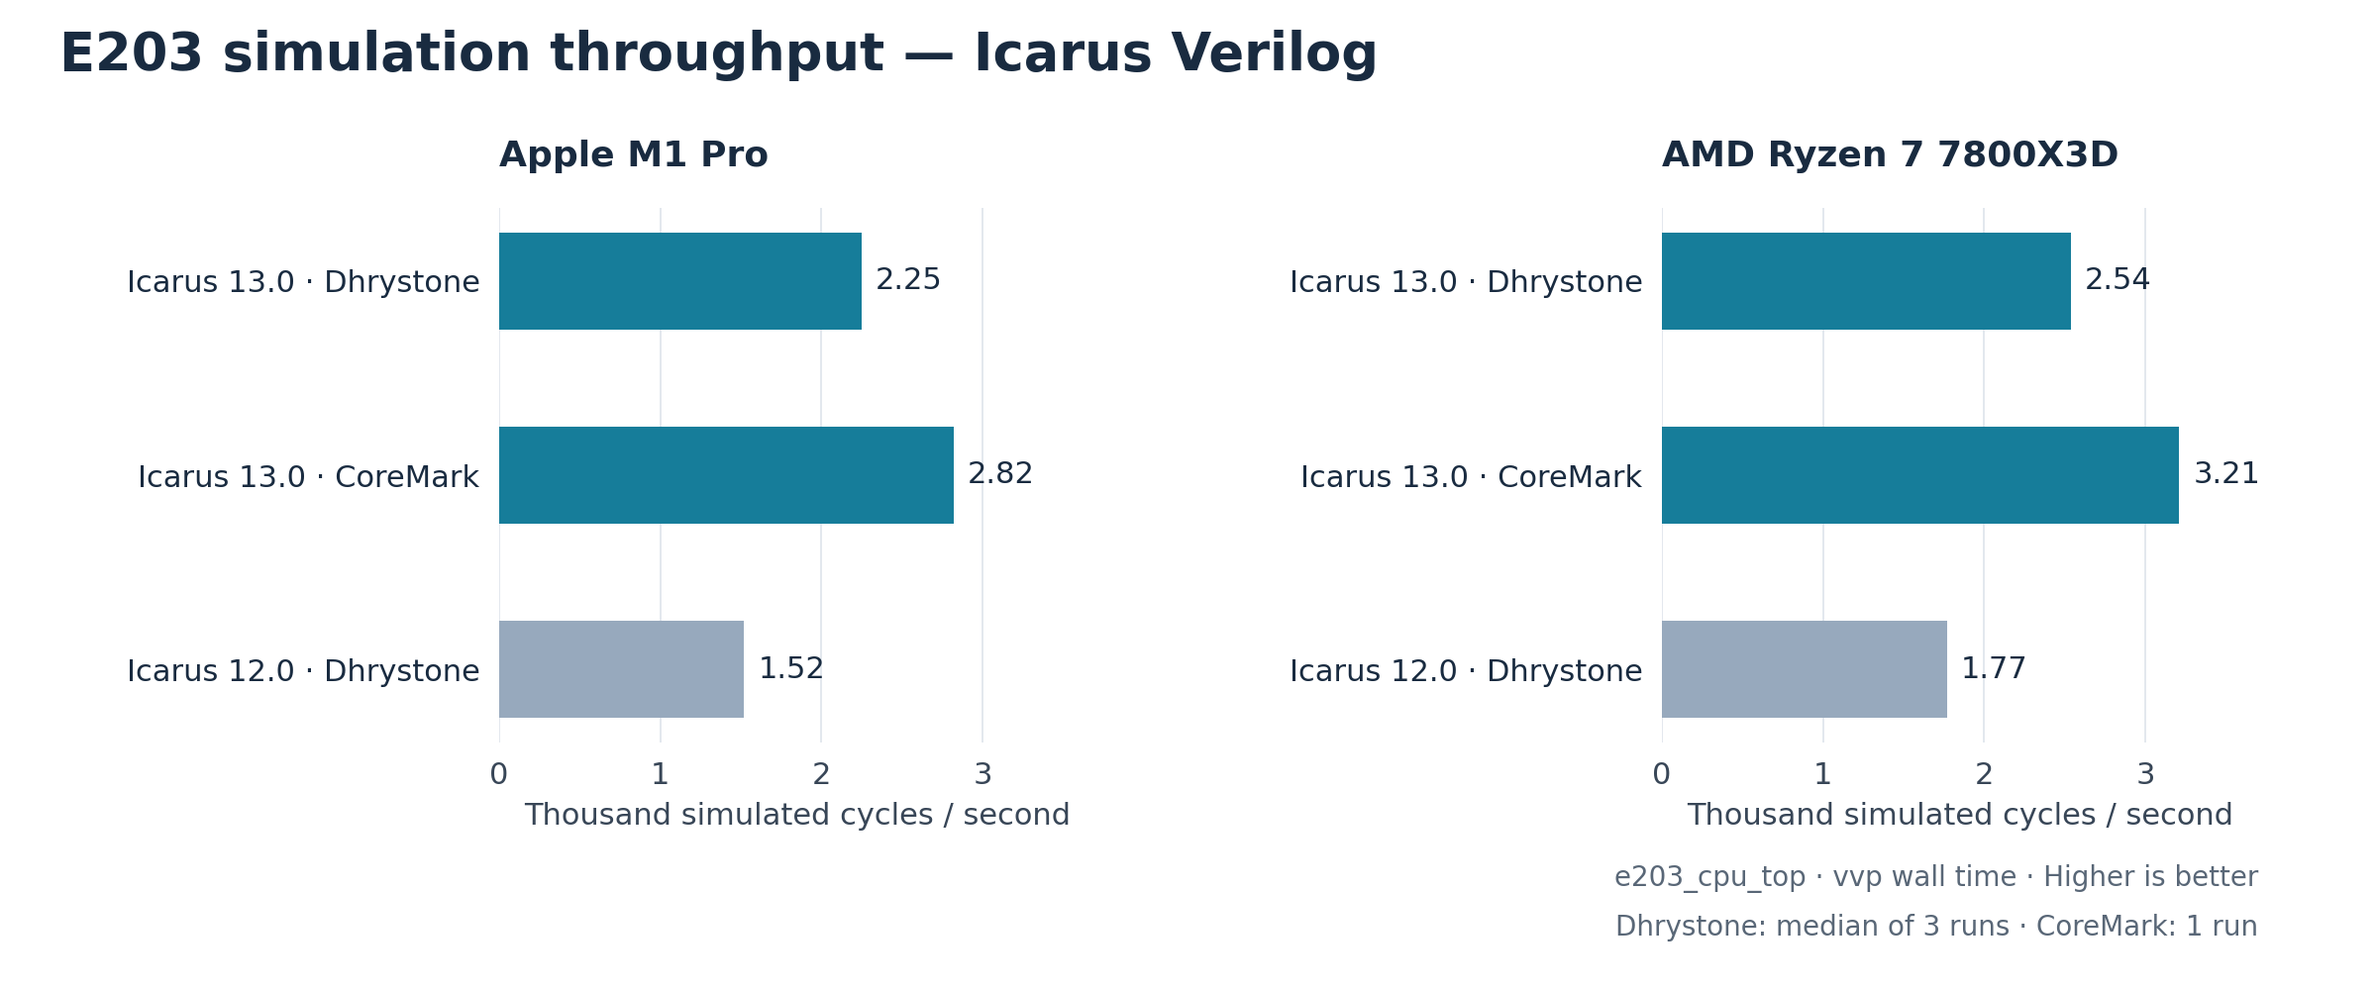
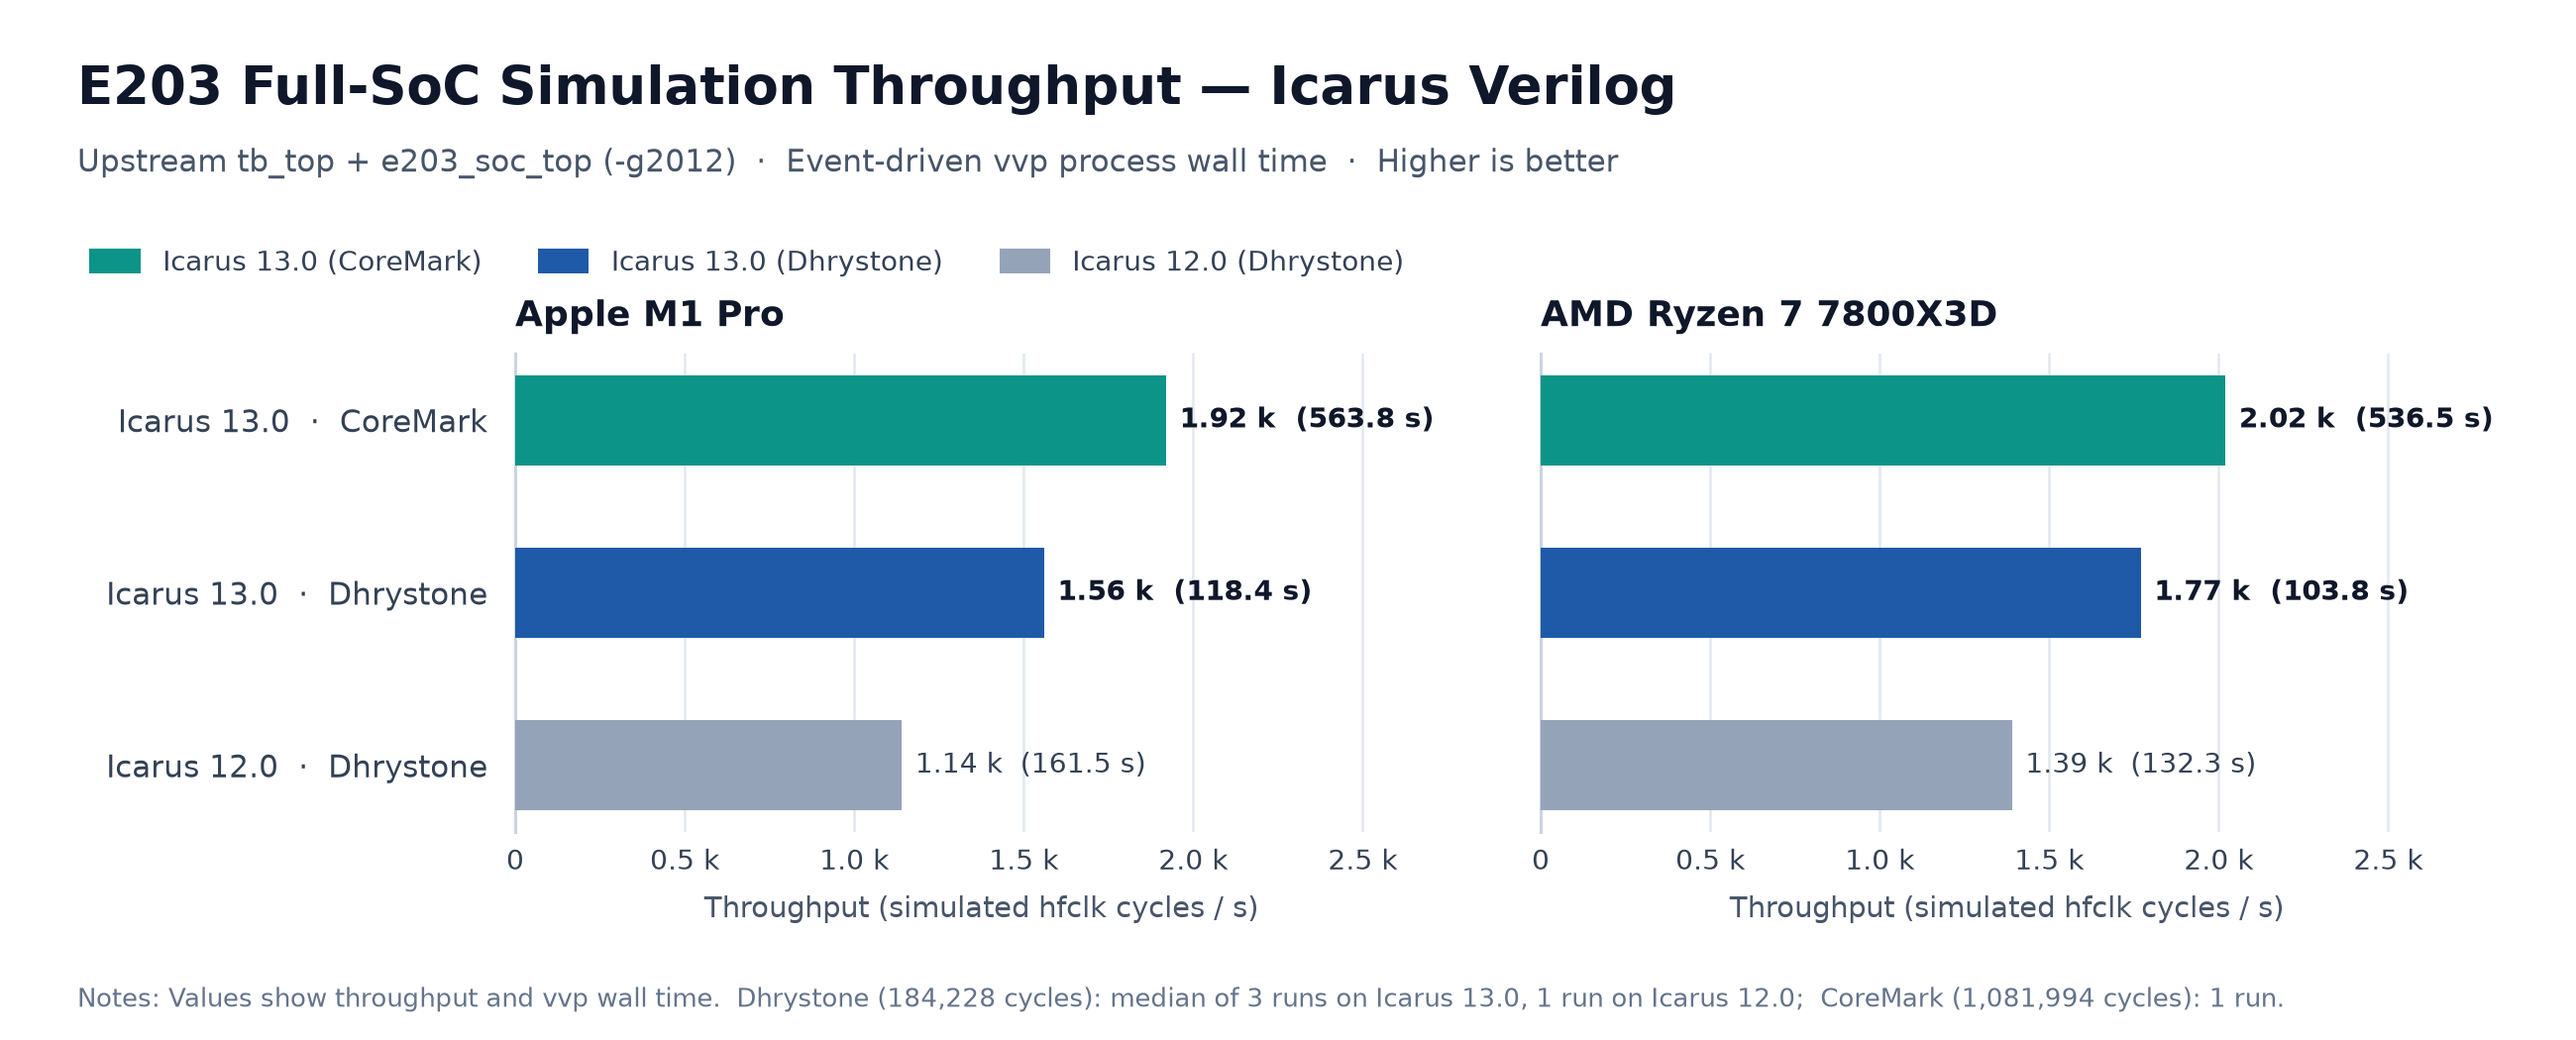
docs: update 7800X3D benchmark results and throughput charts for tb_top

diff --git a/docs/workarounds.md b/docs/workarounds.md
@@ -1,6 +1,6 @@
 # Arcilator Workarounds for E203 (`tb_top`)
 
-`circt-verilog` + `arcilator` cannot compile unmodified E203 RTL out of the box. CompilingCompiling `tb_top` andand its complete SoC (`e203_soc_top`)(`e203_soc_top`) requiresrequires thethe workaroundsworkarounds belowbelow for the pinned CIRCT pipeline. All three simulators compilecompile the same staged `build/rtl` and `build/tb/tb_top.v` tree`build/rtl` and `build/tb/tb_top.v` tree.
+`circt-verilog` + `arcilator` cannot compile unmodified E203 RTL out of the box. Compiling `tb_top` and its complete SoC (`e203_soc_top`) requires the workarounds below for the pinned CIRCT pipeline. All three simulators compile the same staged `build/rtl` and `build/tb/tb_top.v` tree.
 
 Tested versions:
 - E203 (`ext/e203`): `9f3e34f337f5d0a1236a285871ffa2032491617a`
@@ -10,18 +10,18 @@ Tested versions:
 
 | # | Failure without Workaround | Workaround Applied | Location |
 | --- | --- | --- | --- |
-| 1 | `sirv_gnrl_dffs.v` and `i2c_master_byte_ctrl.v` useand `i2c_master_byte_ctrl.v` use `<= #1` non-blocking delays; `circt-verilog` lowers them to timed `llhd.process` + `llhd.wait` blocks rejected by `arcilator` | Strip `#1` intra-assignment delays in thethe stagedstaged RTL tree (`build/rtl`) | [`patches/e203e203.patch`](../patches/e203e203.patch) (`make prepare`) |
+| 1 | `sirv_gnrl_dffs.v` and `i2c_master_byte_ctrl.v` use `<= #1` non-blocking delays; `circt-verilog` lowers them to timed `llhd.process` + `llhd.wait` blocks rejected by `arcilator` | Strip `#1` intra-assignment delays in the staged RTL tree (`build/rtl`) | [`patches/e203.patch`](../patches/e203.patch) (`make prepare`) |
 | 2 | `e203_clkgate.v` instantiates a latch-based ASIC clock gate when `FPGA_SOURCE` is unset | Pass `-DFPGA_SOURCE=1` so `e203_clkgate` uses the upstream FPGA clock pass-through | [`Makefile`](../Makefile) (`DEFINES`) |
 | 3 | `sirv_sim_ram.v` writes byte lanes in a `for` loop; `ImportVerilog` leaves residual `llhd.prb` / `llhd.drv` ops that fail legalization in `arcilator` | Replace the two `sirv_sim_ram` modules (ITCM 8192×64, DTCM 16384×32) with `arc.memory` plus masked `arc.memory_write_port` / `arc.memory_read_port` ops | [`scripts/rewrite-ram.awk`](../scripts/rewrite-ram.awk) (`build/arcilator/ram.mlir`) |
 | 4 | Packed-vector signals across module boundaries (`e203_lsu_ctrl`, `e203_biu`, `e203_exu`, `sirv_qspi_arbiter`) and register-file array probes cause `arcilator` legalization / `SplitLoops` failures | Run `circt-opt --hw-flatten-modules --llhd-combine-drives --llhd-sig2reg --hw-aggregate-to-comb --canonicalize --cse` before `arcilator`, and scalarize the 3-bit QSPI CS mux in `sirv_qspi_arbiter.v` | [`Makefile`](../Makefile) (`build/arcilator/flat.mlir`), [`patches/e203.patch`](../patches/e203.patch) |
-, `sirv_qspi_arbiter` and register-file array probeslegalization / failuresllhd-combine-drives --llhd-sig2reg --hw-aggregate-to-comb --,andscalarize the 3QSPICSmuxinsirv_qspi_arbiter.v), [`patches/e203.patch`](../patches/e203.patch| 5 | `arcilator` rejects asynchronous resets on `seq.firreg` | Pass `--async-resets-as-sync` and use the upstream startup reset (released at 120 ns) | [`Makefile`](../Makefile) (`build/arcilator/model.ll`) |
+| 5 | `arcilator` rejects asynchronous resets on `seq.firreg` | Pass `--async-resets-as-sync` and use the upstream startup reset (released at 120 ns) | [`Makefile`](../Makefile) (`build/arcilator/model.ll`) |
 | 6 | On Linux (`glibc`), `circt-verilog` fails in `seq-infer-clock-ports` (`'hw.instance' op result type #... must be 'i1', but got '!seq.clock'`) due to a temporary `BitVector` use-after-free on modules with >64 ports | Materialize `clockOutputs.lookup(target)` and `clockInputs.lookup(target)` before iterating `.set_bits()` in `InferClockPorts.cpp` | [`patches/circt-infer-clock-ports.patch`](../patches/circt-infer-clock-ports.patch) |
-| 7 | PeripheralPeripheral reset `for` loops (GPIO, UART/SPI FIFOs) and an inferred UART TX payload latch remain as unlegalizedunlegalized `llhd.process` blocks`llhd.process` blocks | ReplaceReplace resetreset loopsloops withwith wholewhole-vector/array resets and default `fifo_tx_data` to zero when `fifo_tx_valid` is lowvector/array resets and default `fifo_tx_data` to zero when `fifo_tx_valid` is low | [`patches/e203e203.patch`](../patches/e203e203.patch) |
+| 7 | Peripheral reset `for` loops (GPIO, UART/SPI FIFOs) and an inferred UART TX payload latch remain as unlegalized `llhd.process` blocks | Replace reset loops with whole-vector/array resets and default `fifo_tx_data` to zero when `fifo_tx_valid` is low | [`patches/e203.patch`](../patches/e203.patch) |
 
 ## Build Pipeline
 
 ```text
-ext/e203/{rtl,tb} ──(patches/e203patches/e203.patch)──► build/{rtl,tb}
+ext/e203/{rtl,tb} ──(patches/e203.patch)──► build/{rtl,tb}
   ──(circt-verilog --top=tb_top -DE203_NATIVE -DFPGA_SOURCE=1)──► build/arcilator/frontend.mlir
   ──(scripts/rewrite-ram.awk)──► build/arcilator/ram.mlir
   ──(circt-opt --hw-flatten-modules --llhd-combine-drives --llhd-sig2reg
@@ -43,7 +43,6 @@ All three simulators compile the same patched `build/rtl` and `build/tb/tb_top.v
 ### 2. Flattening, Signal Promotion, and Aggregate Lowering (`circt-opt`)
 
 Without prior flattening, module ports carry packed vectors whose bits depend on different logic stages across `e203_lsu_ctrl`, `e203_biu`, and `e203_exu`. Flattening and simplifying at the `hw`/`comb`/`seq` level resolves bit-level dataflow first. In the complete SoC, `--llhd-combine-drives --llhd-sig2reg` promotes the register-file array (`rf_r`) probed by `tb_top` for `x3`, and `--hw-aggregate-to-comb` lowers 1-element AON queue arrays (`!hw.array<1xiN>`) so `arcilator`'s `InferStateProperties` pass can legalize all state registers cleanly.
-Without prior flattening, module ports carry packed vectors whose bits depend on different logic stages across `e203_lsu_ctrl`, `e203_biu`, and `e203_exu`. Flattening and simplifying at the `hw`/`comb`/`seq` level resolves bit-level dataflow first. In the complete SoC, `--llhd-combine-drives --llhd-sig2reg` promotes the register-file array (`rf_r`) probed by `tb_top` for `x3`, and `--hw-aggregate-to-comb` lowers 1-element AON queue arrays (`!hw.array<1xiN>`) so `arcilator`'s `InferStateProperties` pass can legalize all state registers cleanly.
 
 ### 3. `InferClockPorts` Temporary `BitVector` Lifetime (`patches/circt-infer-clock-ports.patch`)
 
@@ -51,24 +50,17 @@ In CIRCT `c91415010`, `InferClockPortsPass::rewriteModule` iterates over `clockO
 
 ### 4. Performance Options (Not Required for Correctness)
 
-On `tb_top` (240 functions, `989 KB` LLVM IR with `LUT=false` on M1 Pro):
+On `tb_top` (240 functions, `989–990 KB` LLVM IR with `LUT=false`):
 
-- `opt -O2` before `llc -O2`: Inlines the `@*_arc_*_split_*` functions emitted by `SplitLoops` after `InlineArcs` (`llc` alone leaves them outlined). Gains **+39%** on CoreMark (`326 k` $\rightarrow$ `453 k cycles/s`).
-- `--lookup-tables=false` (`LUT=false`, project default): `LUT=true` emits 305 KB of additional lookup-table logic (`1.3 MB` LLVM IR) that is re-initialized inside `eval()`. Disabling it gains **+61%** on CoreMark (`281 k` $\rightarrow$ `453 k cycles/s`).
+- `opt -O2` before `llc -O2`: Inlines the `@*_arc_*_split_*` functions emitted by `SplitLoops` after `InlineArcs` (`llc` alone leaves them outlined). Gains **+39%** on CoreMark on M1 Pro (`326 k` $\rightarrow$ `453 k cycles/s`) and **+54%** on 7800X3D (`209 k` $\rightarrow$ `323 k cycles/s`).
+- `--lookup-tables=false` (`LUT=false`, project default): `LUT=true` emits 305 KB of additional lookup-table logic (`1.3 MB` LLVM IR) that is re-initialized inside `eval()`. Disabling it gains **+61%** on CoreMark on M1 Pro (`281 k` $\rightarrow$ `453 k cycles/s`) and **+27%** on 7800X3D (`255 k` $\rightarrow$ `323 k cycles/s`).
 
-### 5. SoC Peripheral and Testbench Adaptationsand Testbench Adaptations (`patches/e203e203.patch`)
+### 5. SoC Peripheral and Testbench Adaptations (`patches/e203.patch`)
 
-Upstream `tb_top` instantiates `e203_soc_top`, adding UART, SPI, GPIO,, I2C,, and AONAON. In addition to stripping `#1` in `sirv_gnrl_dffs.v`, [`patches/e203.patch`](../patches/e203.patch) includes:
+Upstream `tb_top` instantiates `e203_soc_top`, adding UART, SPI, GPIO, I2C, and AON. In addition to stripping `#1` in `sirv_gnrl_dffs.v`, [`patches/e203.patch`](../patches/e203.patch) includes:
 
-| ComponentComponent | AdaptationAdaptation | Reason |
+| Component | Adaptation | Reason |
 | --- | --- | --- |
-| `e203_defines.v` | Add `` `timescale 1ns/10ps `` | Provide a consistent default timescale for event-driven builds. |
-| `apb_gpio.v` | Replace the 32-entry pad reset loop with `{32{6'b000010}}` | Expose the reset value directly for register lowering. |
-| `io_generic_fifo.v`, `spi_master_fifo.v` | Pack the buffer array and reset it with `'0` | Avoid residual array-reset processes while keeping indexed accesses. |
-| `i2c_master_byte_ctrl.v` | Remove 60 `<= #1` intra-assignment delays | Eliminate timed processes, matching `sirv_gnrl_dffs.v`. |
-| `apb_uart.v` | Default `fifo_tx_data` to `8'b0` when `fifo_tx_valid` is low | Eliminate an inferred payload latch. |
-| `sirv_qspi_arbiter.v` | Unpack 3-bit `T_406` (`{cs_set, cs_clear, cs_hold}`) into scalar muxes | Prevent a false combinational loop between `cs_set` and `cs_clear` in `arcilator`. |
-| `tb/tb_top.v` | Guard clock/reset/image blocks with `E203_NATIVE` and add UART benchmark exit detection | Allow native C++ drivers and Icarus Verilog to share the exact upstream `tb_top` module. |
 | `e203_defines.v` | Add `` `timescale 1ns/10ps `` | Provide a consistent default timescale for event-driven builds. |
 | `apb_gpio.v` | Replace the 32-entry pad reset loop with `{32{6'b000010}}` | Expose the reset value directly for register lowering. |
 | `io_generic_fifo.v`, `spi_master_fifo.v` | Pack the buffer array and reset it with `'0` | Avoid residual array-reset processes while keeping indexed accesses. |

diff --git a/docs/results.md b/docs/results.md
@@ -17,34 +17,37 @@ Native harnesses are compiled single-threaded with `-O2 -std=c++17`. Arcilator u
 
 ## Throughput (`tb_top`, simulated `hfclk` cycles per host second)
 
-Workload lengths on `tb_top`: Dhrystone = `184,228` cycles (`17,395` reset/boot cycles before main loop; `User_Cycle=911` across 2 runs); CoreMark = `1,081,994` cycles (`Total ticks=930,733`). Linux (7800X3D) columns will be populated when measured on the Linux host.
+![Native simulation throughput](figures/native-throughput.png)
+
+![Icarus Verilog throughput](figures/icarus-throughput.png)
+
+Workload lengths on `tb_top`: Dhrystone = `184,228` cycles (`17,395` reset/boot cycles before main loop; `User_Cycle=911` across 2 runs); CoreMark = `1,081,994` cycles (`Total ticks=930,733`).
 
 | Simulator (`tb_top`) | Metric | Dhrystone (M1 Pro) | CoreMark (M1 Pro) | Dhrystone (7800X3D) | CoreMark (7800X3D) |
 | --- | --- | ---: | ---: | ---: | ---: |
-| Verilator 5.028 | loop | **1.04 M** (0.177 s) | **1.11 M** (0.971 s) | TBD | TBD |
-| Verilator 5.052 | loop | 1.00 M (0.184 s) | 1.07 M (1.012 s) | TBD | TBD |
-| arcilator, `LUT=false` (`opt -O2` + `llc -O2`) | loop | **459 k** (0.402 s) | **453 k** (2.386 s) | TBD | TBD |
-| arcilator, `LUT=false`, without `opt -O2` | loop | 329 k (0.561 s) | 326 k (3.315 s) | TBD | TBD |
-| arcilator, `LUT=true` | loop | 281 k (0.655 s) | 281 k (3.847 s) | TBD | TBD |
-| Icarus 13.0 | wall | 1.56 k (118.4 s) | 1.92 k (563.8 s) | TBD | TBD |
-| Icarus 12.0 | wall | 1.14 k (161.5 s) | - | TBD | TBD |
+| Verilator 5.028 | loop | **1.04 M** (0.177 s) | **1.11 M** (0.971 s) | **801 k** (0.230 s) | **828 k** (1.306 s) |
+| Verilator 5.052 | loop | 1.00 M (0.184 s) | 1.07 M (1.012 s) | 789 k (0.234 s) | 792 k (1.366 s) |
+| arcilator, `LUT=false` (`opt -O2` + `llc -O2`) | loop | **459 k** (0.402 s) | **453 k** (2.386 s) | **330 k** (0.558 s) | **323 k** (3.346 s) |
+| arcilator, `LUT=false`, without `opt -O2` | loop | 329 k (0.561 s) | 326 k (3.315 s) | 208 k (0.887 s) | 209 k (5.167 s) |
+| arcilator, `LUT=true` | loop | 281 k (0.655 s) | 281 k (3.847 s) | 252 k (0.731 s) | 255 k (4.247 s) |
+| Icarus 13.0 | wall | 1.56 k (118.4 s) | 1.92 k (563.8 s) | 1.77 k (103.8 s) | 2.02 k (536.5 s) |
+| Icarus 12.0 | wall | 1.14 k (161.5 s) | - | 1.39 k (132.3 s) | - |
 
 - **Metric**: Native models report in-process simulation loop time (`HARNESS sim_s`), excluding process startup and image loading; Icarus reports `vvp` process wall time.
 - **Runs**: Median of 5 timed runs after 1 warm-up run for native models; Icarus uses 3 timed runs for Dhrystone (12.0: 1 run) and 1 timed run for CoreMark.
-- **Benchmark self-reports**: Dhrystone reports `1.249510 DMIPS/MHz` and CoreMark reports `2.148844 CoreMark/MHz` (identical across `arcilator`, Verilator, and Icarus).
+- **Benchmark self-reports**: Dhrystone reports `1.249510 DMIPS/MHz` and CoreMark reports `2.148844 CoreMark/MHz` (identical across `arcilator`, Verilator, and Icarus on both hosts).
 
 ### Observations
 
-- **Full SoC (`tb_top`) vs core-only**: Moving from `e203_cpu_top` to the complete SoC (`tb_top`) adds dual clock domains (`#2 clk` and `#33 lfextclk` in `e203_soc_top`) and peripheral subsystems (UART, QSPI, GPIO, I2C, AON/PMU, CLINT, PLIC). On M1 Pro, Verilator runs CoreMark at **1.07–1.11 M cycles/s** and `arcilator` at **453 k cycles/s** (~2.4× faster in Verilator).
-- **Arcilator flags on `tb_top`**: Compiling `tb_top` with `arcilator` produces 240 functions (`989 KB` LLVM IR with `LUT=false`). Running `opt -O2` before `llc -O2` inlines split arc evaluation functions and improves throughput by **+39%** on CoreMark (`326 k` $\rightarrow$ `453 k cycles/s`). Disabling lookup tables (`--lookup-tables=false`, project default) improves throughput by **+61%** over `LUT=true` (`281 k` $\rightarrow$ `453 k cycles/s`).
-- **Icarus Verilog**: Icarus 13.0 is **1.37×** faster than Icarus 12.0 on Dhrystone (`1.56 k` vs `1.14 k cycles/s`) and ~240–580× slower than native compiled models.
+- **Full SoC (`tb_top`) vs core-only**: Moving from `e203_cpu_top` to the complete SoC (`tb_top`) adds dual clock domains (`#2 clk` and `#33 lfextclk` in `e203_soc_top`) and peripheral subsystems (UART, QSPI, GPIO, I2C, AON/PMU, CLINT, PLIC). On CoreMark, Verilator runs at **1.07–1.11 M cycles/s** on M1 Pro and **792–828 k cycles/s** on 7800X3D, while `arcilator` runs at **453 k cycles/s** on M1 Pro and **323 k cycles/s** on 7800X3D (~2.4–2.6× faster in Verilator).
+- **Arcilator flags on `tb_top`**: Compiling `tb_top` with `arcilator` produces 240 functions (`989–990 KB` LLVM IR with `LUT=false`). Running `opt -O2` before `llc -O2` inlines split arc evaluation functions and improves CoreMark throughput by **+39%** on M1 Pro (`326 k` $\rightarrow$ `453 k cycles/s`) and **+54%** on 7800X3D (`209 k` $\rightarrow$ `323 k cycles/s`). Disabling lookup tables (`--lookup-tables=false`, project default) improves CoreMark throughput by **+61%** on M1 Pro (`281 k` $\rightarrow$ `453 k cycles/s`) and **+27%** on 7800X3D (`255 k` $\rightarrow$ `323 k cycles/s`).
+- **Icarus Verilog**: Icarus 13.0 is **1.37×** faster than Icarus 12.0 on Dhrystone on M1 Pro (`1.56 k` vs `1.14 k cycles/s`) and **1.27×** faster on 7800X3D (`1.77 k` vs `1.39 k cycles/s`), and ~160–670× slower than native compiled models.
 
 These results cover one SoC, fixed tool revisions, and single-threaded builds; they are not a general simulator ranking.
 
 ## Correctness
 
-With `tb_top`, all 67 RV32IMAC ISA images, Dhrystone, and CoreMark pass on arcilator, Verilator 5.052, and Icarus 13.0 on the local M1 Pro with identical cycle counts (e.g., `rv32ui-p-add` = 23,424; `rv32uc-p-rvc` = 23,157; Dhrystone = 184,228; CoreMark = 1,081,994). The eight default native VCDs match on all 13 observations (`make compare-vcd`). This establishes observed agreement on these images, not formal equivalence.
-With `tb_top`, all 67 official RV32IMAC ISA tests (`rv32{ui,um,ua,uc,mi}-p-*`), Dhrystone, and CoreMark pass on `arcilator`, Verilator (5.028 and 5.052), and Icarus (12.0 and 13.0) with identical cycle counts (e.g., `rv32ui-p-add` = `23,424`; `rv32uc-p-rvc` = `23,157`; Dhrystone = `184,228`; CoreMark = `1,081,994`). The eight default smoke VCD waveforms from `arcilator` and Verilator match across all 13 testbench observations (`make compare-vcd`). This establishes observed agreement on these workloads, not formal equivalence.
+With `tb_top`, all 67 official RV32IMAC ISA tests (`rv32{ui,um,ua,uc,mi}-p-*`), Dhrystone, and CoreMark pass on `arcilator`, Verilator (5.028 and 5.052), and Icarus (12.0 and 13.0) on both hosts with identical cycle counts (e.g., `rv32ui-p-add` = `23,424`; `rv32uc-p-rvc` = `23,157`; Dhrystone = `184,228`; CoreMark = `1,081,994`). The eight default smoke VCD waveforms from `arcilator` and Verilator match across all 13 testbench observations (`make compare-vcd`). This establishes observed agreement on these workloads, not formal equivalence.
 
 ## Reproduce
 
@@ -61,6 +64,8 @@ make -B bench SIM=arcilator SIZE=all LUT=true CIRCT_BIN=/path/to/circt/build/bin
 
 # Icarus Verilog (Dhrystone + CoreMark)
 make -B bench SIM=iverilog SIZE=small REPEATS=3 TAG=iverilog-13.0 \
+  IVERILOG=/path/to/13.0/bin/iverilog VVP=/path/to/13.0/bin/vvp
+make bench SIM=iverilog SIZE=large REPEATS=1 TAG=iverilog-13.0 \
   IVERILOG=/path/to/13.0/bin/iverilog VVP=/path/to/13.0/bin/vvp
 make -B bench SIM=iverilog SIZE=small REPEATS=1 TAG=iverilog-12.0 \
   IVERILOG=/path/to/12.0/bin/iverilog VVP=/path/to/12.0/bin/vvp
